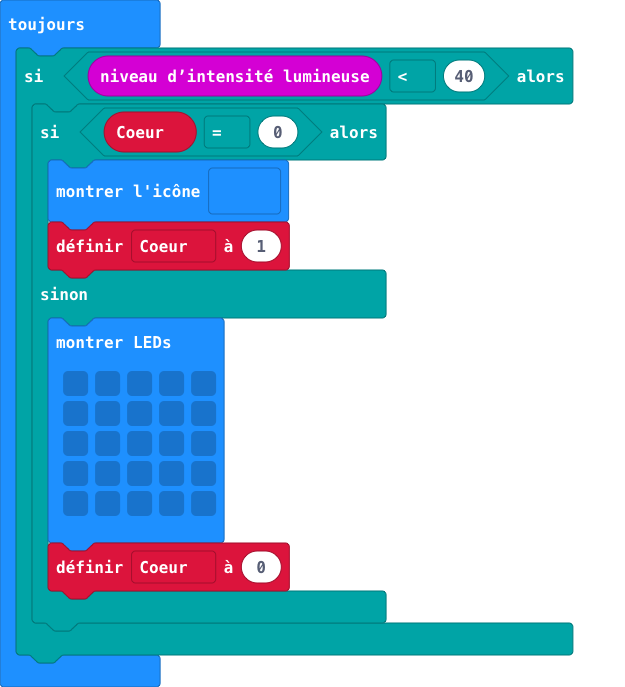
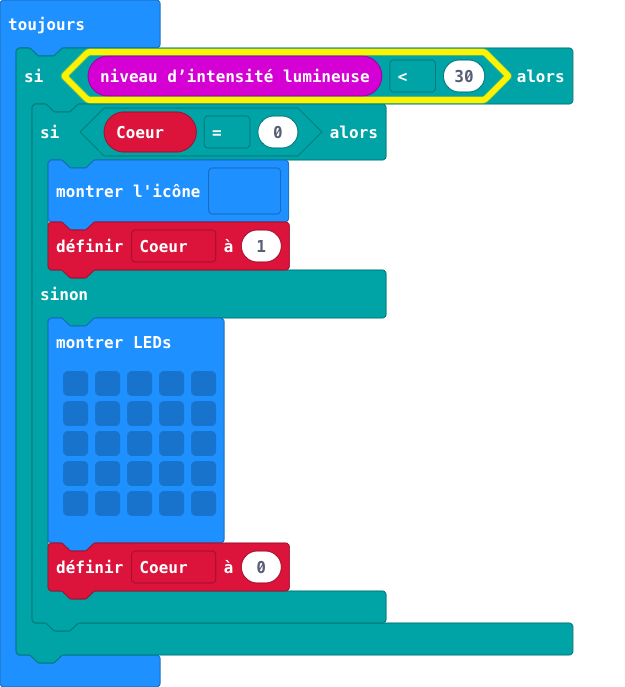
Mise à jour main.blocks, main.ts

Changed region(s): [[0.0912, 0.0611, 0.8208, 0.1528]]

diff --git a/main.ts b/main.ts
@@ -1,6 +1,6 @@
 let Coeur = 0
 basic.forever(function () {
-    if (input.lightLevel() < 40) {
+    if (input.lightLevel() < 30) {
         if (Coeur == 0) {
             basic.showIcon(IconNames.Heart)
             Coeur = 1
